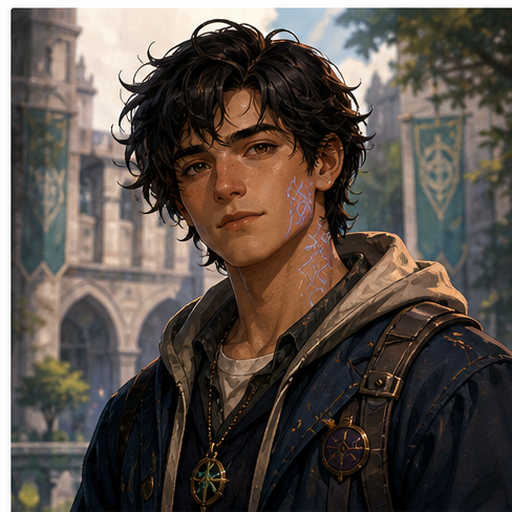
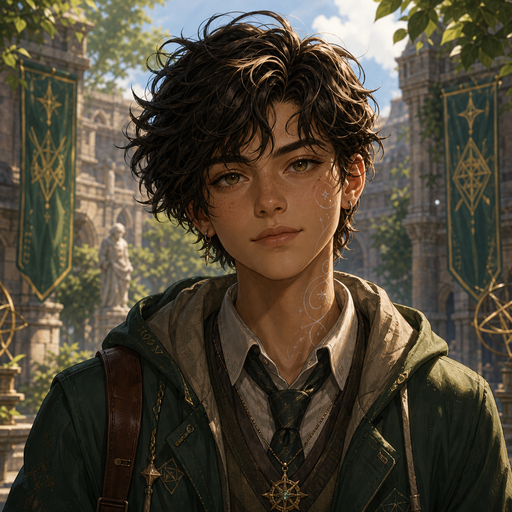
Clarify neutral player identity and starting tick

diff --git a/docs/modding_guide.md b/docs/modding_guide.md
@@ -1642,7 +1642,8 @@ Common fields:
     "title": "My Total Conversion",
     "tagline": "A new world built on Omni-Framework.",
     "starting_player_id": "base:player",
-    "starting_location": "my_name:my_mod:back_alley"
+    "starting_location": "my_name:my_mod:back_alley",
+    "starting_tick": 8
   },
   "calendar": {
     "day_start_tick": 0,
@@ -1698,6 +1699,7 @@ Common fields:
 - `game.starting_player_id` is required and must point at a valid entity id
 - `game.starting_location` should be a valid location id when provided
 - `game.starting_discovered_locations` must be an array of valid location ids when provided; include any connected locations that should be available in the first travel view
+- `game.starting_tick` is optional and sets the new-game absolute tick within the first day. It must be an integer from `0` to `game.ticks_per_day - 1`.
 - Starting currencies are set on the player entity template in `entities.json`, not in `config.json`. To change starting money, patch the player entity's `currencies` field.
 - `calendar` config controls date interpretation for schedule and calendar surfaces. `TimeKeeper` still owns absolute time advancement through `GameState.current_tick`; `calendar.day_start_tick` only changes display-day and schedule projection.
 - `calendar.weekdays` must be a non-empty array of unique non-empty strings. The engine does not assume a seven-day week.

diff --git a/docs/TODO/VANGUARD_IMPLEMENTATION_GUIDE.md b/docs/TODO/VANGUARD_IMPLEMENTATION_GUIDE.md
@@ -17,6 +17,8 @@ Current status:
 - Addon Phase E has a first data-only slice in `mods/omni/nightlife/`: a Nightlife District location, High Street connection patch, late-night recovery/social/work activities, temporary status effects, an NPC challenge, an addon achievement, local placeholder assets, and README guidance.
 - Integrated JSON/reference audit passes for base plus all current `mods/omni/*` addon slices: IDs, actions, conditions, status effects, achievements, recipes, task templates, location connections, and `res://` asset references resolve together.
 - Base and addon image assets now use generated draft PNGs rather than copied placeholder art. Sound assets are still placeholder WAVs.
+- The default player copy and portrait are being kept gender-flexible. A real player presentation picker is still needed so players can choose portraits/pronouns/body presentation at new game without encoding gender as stat modifiers.
+- Campus Planner activities now use auto-travel where appropriate, and new games start at 08:00 so day-one campus activities are immediately usable instead of greyed out from midnight.
 - Godot-side validation is currently blocked before project load by the native `godot-rust` extension startup crash (`API v4.5`, runtime `v4.6.2`, signal 11).
 - Required images and sounds are listed in `docs/TODO/VANGUARD_ASSET_REQUIREMENTS.md`.
 - Legacy `mods/example/*` packs are disabled because they target the previous starter base.

diff --git a/mods/base/README.md b/mods/base/README.md
@@ -28,7 +28,7 @@ The base mod is intentionally small. It demonstrates how to build a real game lo
 
 ## How The Loop Works
 
-The player starts with five equipped body sockets: `cognitive`, `sensory`, `manipulator`, `locomotion`, and `framework`. The dorm ritual circle is the only base location that opens `AssemblyEditorBackend`, so body choices are made at home before travelling to scheduled activities.
+The player starts with five equipped body sockets: `cognitive`, `sensory`, `manipulator`, `locomotion`, and `framework`. The dorm ritual circle is the only base location that opens `AssemblyEditorBackend`, so body choices are made at home before travelling to scheduled activities. The starter identity is intentionally neutral; presentation options should be handled as player-facing choice, not as statted transformation parts.
 
 Activities are the main day-spending surface. `base:attend_arcana_lecture`, `base:study_at_library`, `base:warehouse_shift`, and `base:student_mixer` use stat-gated outcomes so different bodies produce different rewards and stress pressure. `base:prepare_ritual_circle` spends mana and ritual chalk through normal activity actions, while `base:sleep_in_dorm` restores mana, reduces stress, clears the ritual-prepared flag, and records the day-end event.
 

diff --git a/docs/SCHEMA_AND_LINT_SPEC.md b/docs/SCHEMA_AND_LINT_SPEC.md
@@ -156,6 +156,7 @@ Rules:
 - `game.starting_player_id` is required and must reference a known entity.
 - `game.starting_location` must reference a known location when present.
 - `game.starting_discovered_locations` must be an array of known location ids when present.
+- `game.starting_tick` must be an integer from `0` to `game.ticks_per_day - 1` when present.
 - `game.ticks_per_day` and `game.ticks_per_hour` must be positive integers when present.
 - `calendar` must be an object when present.
 - `calendar.day_start_tick` must be an integer from `0` to `game.ticks_per_day - 1` when present.

diff --git a/docs/TODO/VANGUARD_ASSET_REQUIREMENTS.md b/docs/TODO/VANGUARD_ASSET_REQUIREMENTS.md
@@ -151,5 +151,6 @@ Asset Notes
 - Keep icons readable at small UI sizes.
 - Prefer transparent PNGs for final parts, items, faction emblems, and achievement icons when the silhouette needs to float over UI.
 - Entity portraits and current draft icons can be square PNGs with painted backgrounds.
+- The default player portrait should stay gender-flexible until a proper new-game presentation picker exists.
 - One-shot UI sounds should be short `.wav` or `.ogg` files.
 - Add `.import` files by importing the assets through Godot after the source files exist.